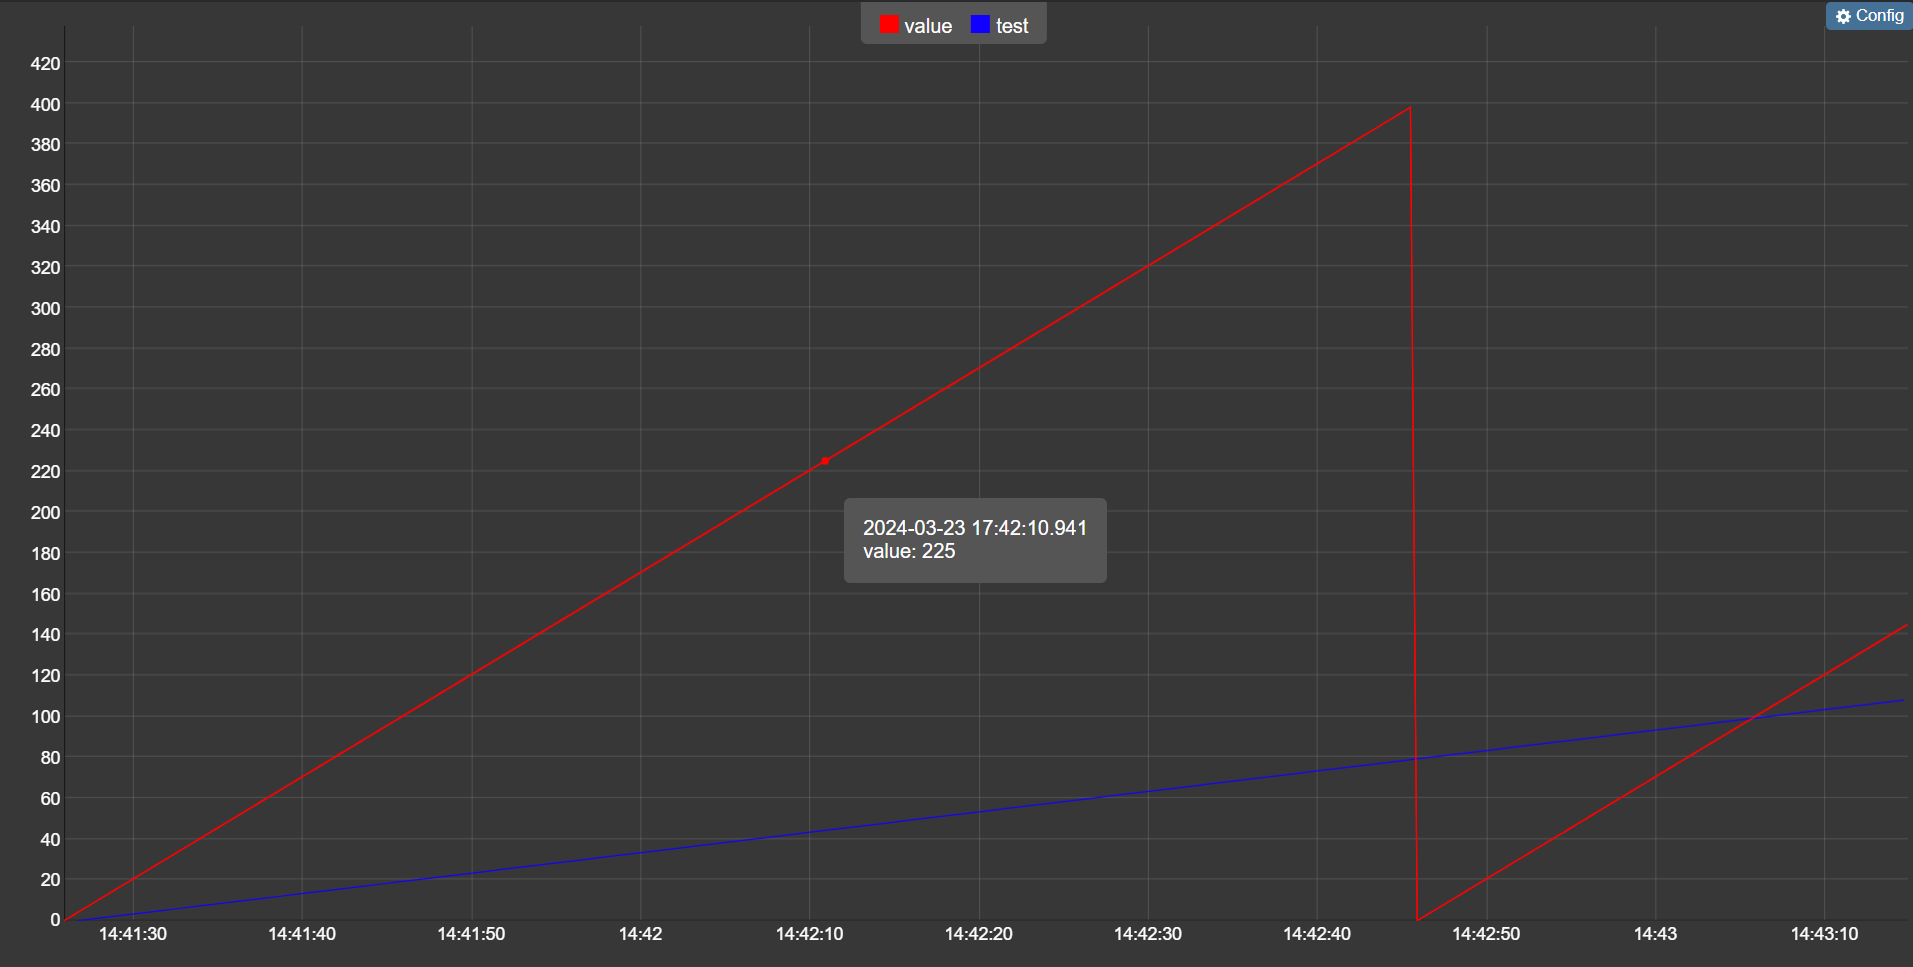
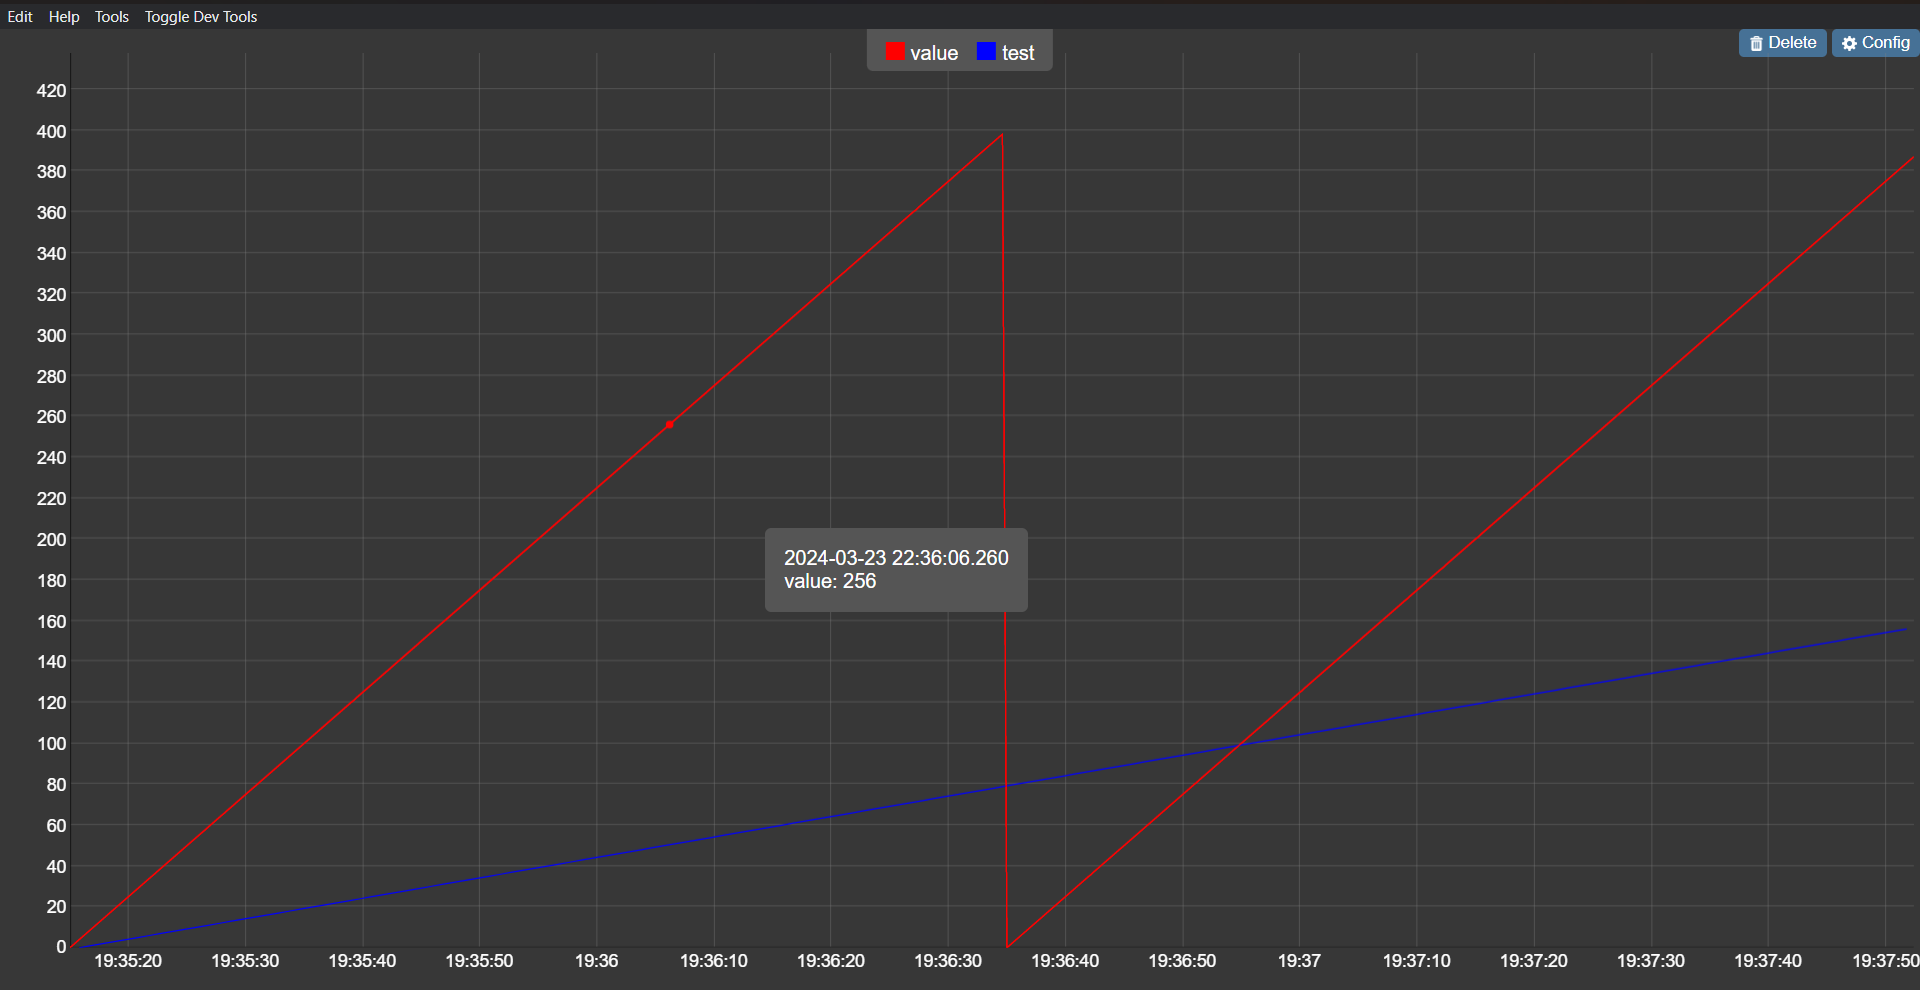
documentation continued

diff --git a/src/graph_window/graph_handler.js b/src/graph_window/graph_handler.js
@@ -150,11 +150,11 @@ function create_color_label(cur, i) {
     color_label.style["background-color"] = cur.color;
     color_label.addEventListener("click", () => {
         visibility[i] = !visibility[i];
-        if (visibility[i] == true){
+        if (visibility[i] == true) {
             color_label.classList.remove("graph_label_disabled");
             text_label.classList.remove("graph_label_disabled");
         }
-        else{
+        else {
             color_label.classList.add("graph_label_disabled");
             text_label.classList.add("graph_label_disabled");
         }
@@ -265,7 +265,7 @@ function setGraphsConfig(newGraphsConfig) {
 }
 
 function deleteGraphField(id) {
-    targetGraphField = document.getElementById(`cgDiv${id}`);
+    var targetGraphField = document.getElementById(`cgDiv${id}`);
     graphs_list_div.removeChild(targetGraphField);
     deleted_graphs.push(id);
 }
@@ -390,4 +390,10 @@ function toggleHide(item) {
 document.getElementById("open_config_menu").onclick = function (e) {
     e.stopPropagation();
     toggleHide(config_menu);
+};
+
+document.getElementById("delete_graph_data").onclick = function (e) {
+    e.stopPropagation();
+    data = [];
+    dataLength = 0;
 };

diff --git a/src/graph_window/index.html b/src/graph_window/index.html
@@ -45,8 +45,7 @@
 
     </div>
     <div style="display: flex;flex-direction: row;margin-top:15px;margin-bottom:5px">
-      <button onclick="cancelConfig()" class="general_btn close_btn"
-        data-i18n="cancel">
+      <button onclick="cancelConfig()" class="general_btn close_btn" data-i18n="cancel">
       </button>
       <button onclick="saveGraphsConfig();hideItem(config_menu)" class="general_btn" data-i18n="save_and_close">
       </button>
@@ -55,10 +54,14 @@
 
 
   <div style="position:absolute; right:0px">
-  <button id="open_config_menu" class="general_btn" style="right:5px">
-    <img src="../images/settings gear.png" width="12" height="12">
-    <label data-i18n="config"></label>
-  </button>
+    <button id="delete_graph_data" class="general_btn" style="right:5px">
+      <img src="../images/trash-2-16.png" width="12" height="12">
+      <label data-i18n="delete"></label>
+    </button>
+    <button id="open_config_menu" class="general_btn" style="right:5px">
+      <img src="../images/settings gear.png" width="12" height="12">
+      <label data-i18n="config"></label>
+    </button>
   </div>
   <div id="graph_inspector"></div>
   <div id="graph_container"></div>

diff --git a/readme.md b/readme.md
@@ -98,3 +98,35 @@ Where 15 is the value that get added to the graph values and value is discarted.
 
 When data starts to come in the graph will be filled:
 <img src="/documentation/graph window with values.png" alt="graph window with values">
+
+Note that on the top of the screen there is a label for the graphs currently being tracked, in this case there are two series, by clicking on the label you can hide any series you want and then click again to show them once more:
+<img src="/documentation/graph window with test invisible.png" alt="graph window with test invisible">
+
+You can set the axis ranges on the config menu:
+<img src="/documentation/graph config ranges.png" alt="graph config ranges">
+If you do not want to manually set the values you can simply check the auto detect slider, that way the graph will set the ranges based on the minimum and maximum values present in the series.
+
+Finally you can configure how many data points you wish to have in the graph. For example, In case you only want 100 points to be shown, you can configure it in the menu:
+<img src="/documentation/graph max points.png" alt="graph max points">
+
+Once that happens, only the most recent 100 points will be shown in the graph, all points beyond that will be discarded.
+If you do not want any data to be discarded, simply set the value to 0, then all data will be kept in the graph until you manually delete them with the delete button in the corner of the screen.
+
+
+# How to use the Payload sequencer feature
+The program includes a feature to program a sequence of packets to be sent via the serial port, to use it you can open it via the tools menu:
+<img src="/documentation/payload sequencer button.png" alt="payload sequencer button">
+
+Upon opening the window for the first time, it will look like this:
+<img src="/documentation/empty payload sequencer.png" alt="empty payload sequencer">
+
+To add a packet to the sequence simply click the "Add Packet" button, with that an empty field will be created at the end of the sequence:
+<img src="/documentation/empty payload sequencer item.png" alt="empty payload sequencer item">
+
+- *Packet* is the field where you will type in the actual data you want to send
+- *Delay* is the field where you will put the delay until that packet is sent, so for the first packet it is the time until it is sent from the moment you click send sequence.
+
+<img src="/documentation/payload sequencer window.png" alt="payload sequencer window">
+
+After you've saved the sequence, you can start sending the sequence, if the continuous sequence is checked the sequence will repeat continously, if not it will run the whole sequence and then stop.
+
